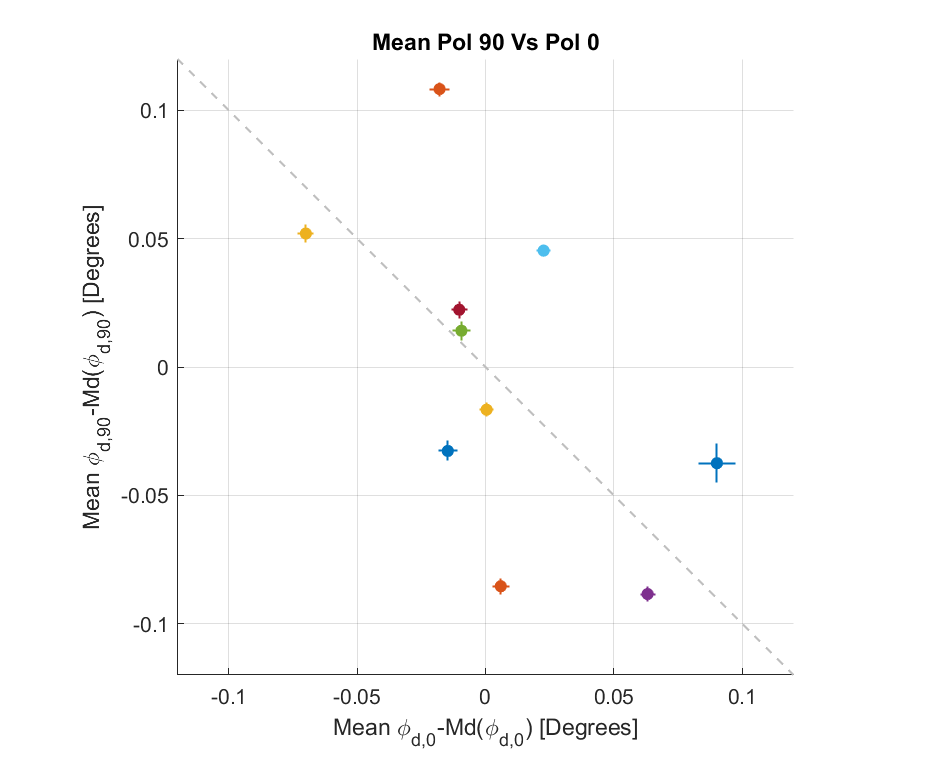
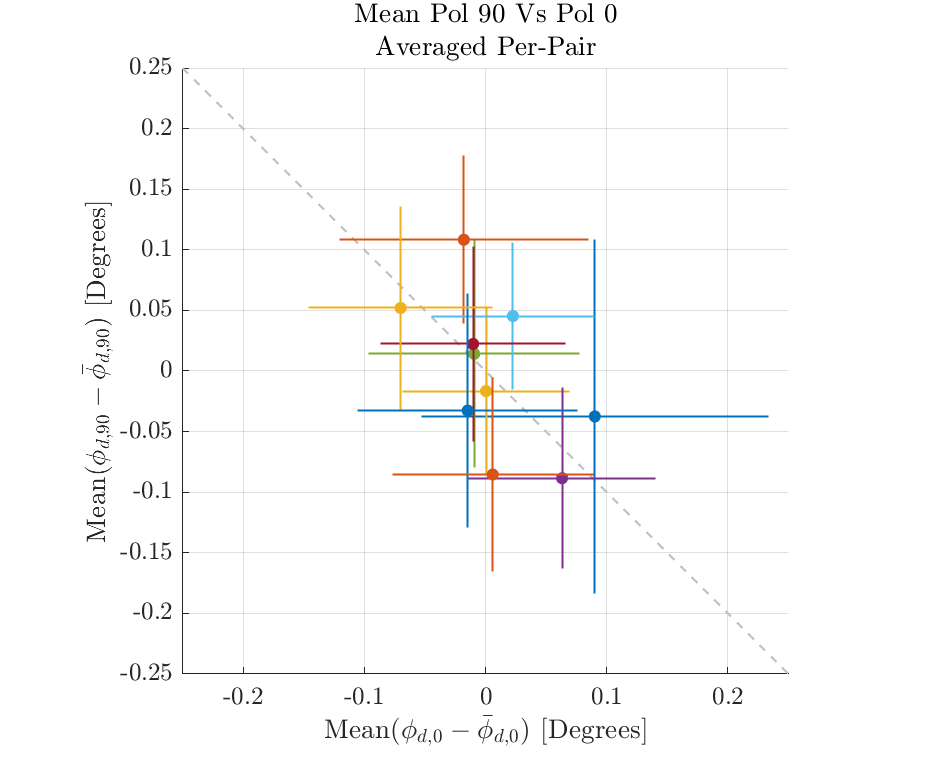
Updated phi-per-obs plots

diff --git a/2022mmdd_rps_angles_xpol/index.html b/2022mmdd_rps_angles_xpol/index.html
@@ -617,26 +617,25 @@ To discuss: <a href="#abanticorr">A/B anticorrelations</a>
         <h3 id="phivsobs">Overall Pair Angle fluctuation per-Obs</h3>
 
         <p>
-            That said, when we look at A vs. B between each observation we do see some fluctuation in the mean of the whole distribution up to 0.1&deg; which is not predicted by the correlated noise discussed above. The plot below is the same plot as Fig. 4.2 in the previous section, but we're now averaging the A and B detectors per observation. The error bars are the errors-on-the-mean of the distributions.
+            That said, when we look at A vs. B between each observation we do see some fluctuation in the mean of the whole distribution up to ~0.1&deg; which is not predicted by the correlated noise discussed above. The plot below is the same plot as Fig. 4.2 in the previous section, but we're now averaging the A and B detectors per observation. The error bars are the standard deviations of the distributions.
         </p>
 
     <figure>
         <img src="figs/mean_pol90_vs_pol0_type5.png">
         <figcaption>
-            Same plot as Fig 4.2 except the distributions are averaged per observation. Error bars are the Error-on-the-means of the distributions.
+            Same plot as Fig 4.2 except the distributions are averaged per observation. Error bars are standard deviations of the distributions.
         </figcaption>
     </figure>
 
-    <p>When combined into pairs, this translates to a fluctuation in angle of up to ~0.04&deg;. The plot below shows the $\phi_{pair}$ median-subtracted per-pair and then averaged per-observation. The error bars are the 5&times; the error-on-the-means. </p>
+    <p>When combined into pairs, this translates to a fluctuation in angle of up to ~0.04&deg;, but all consistent with zero. The plot below shows the $\phi_{pair}$ median-subtracted per-pair and then averaged per-observation. The error bars are the standard deviations. </p>
 
         <figure>
-            <img src="figs/phi_pair_vs_obs_medsub.png" width="70%">
+            <img src="figs/phi_pair_vs_dk_medsub.png" width="70%">
             <figcaption>
 
             </figcaption>
         </figure>
 
-        <p>Unfortunately, I haven't been able to find anything in the data or think of anything that explains this fluctuation. My proposal is to include an addition 0.04&deg; to account for it.</p>
         <p>So far, I have not been able to find any correlations with these offsets that would point to a particular systematic (correlating with DK angle, for instance).</p>
 
 
